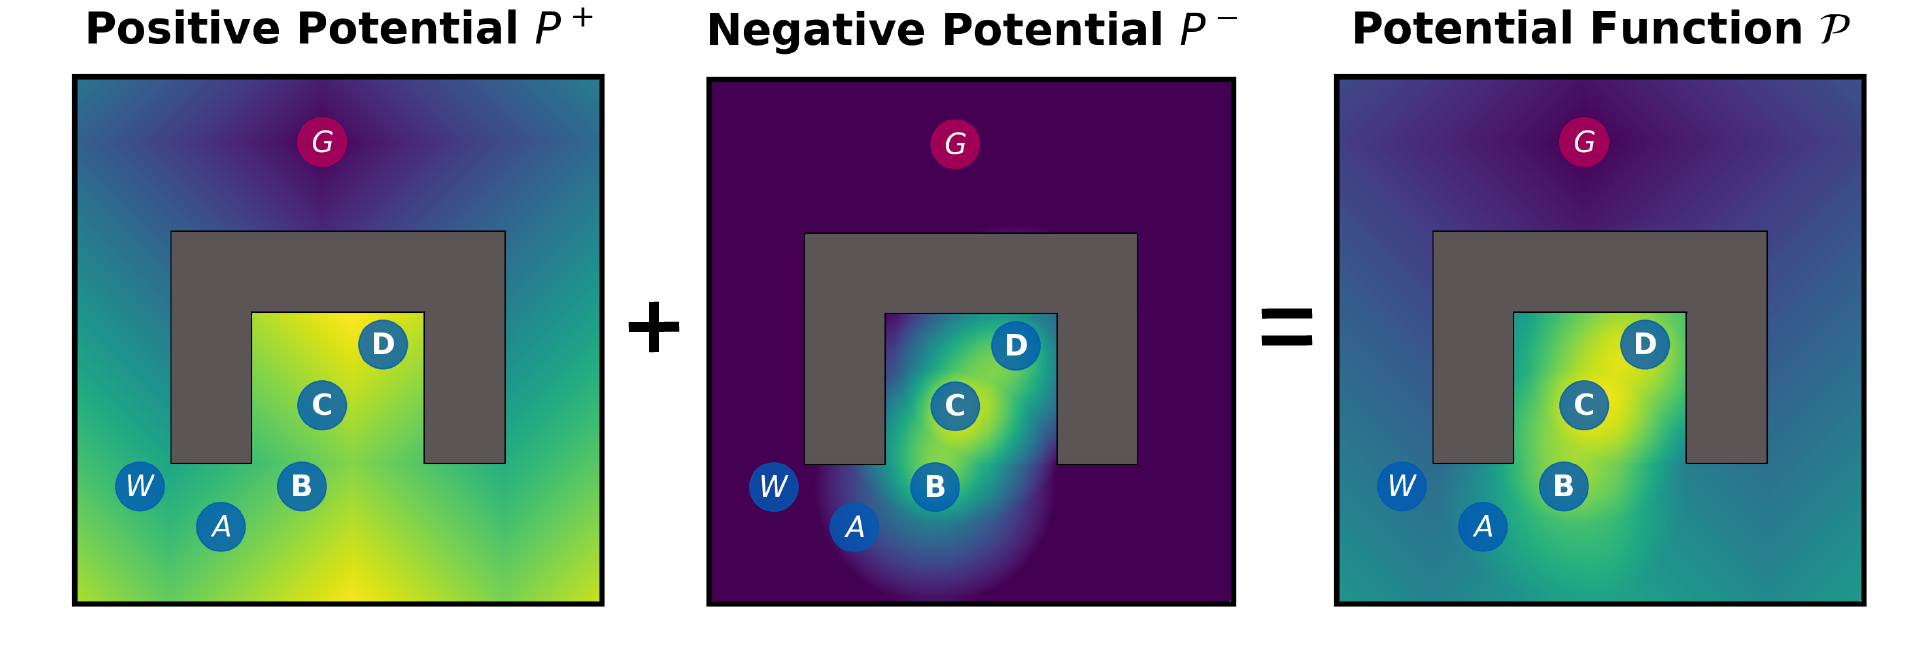
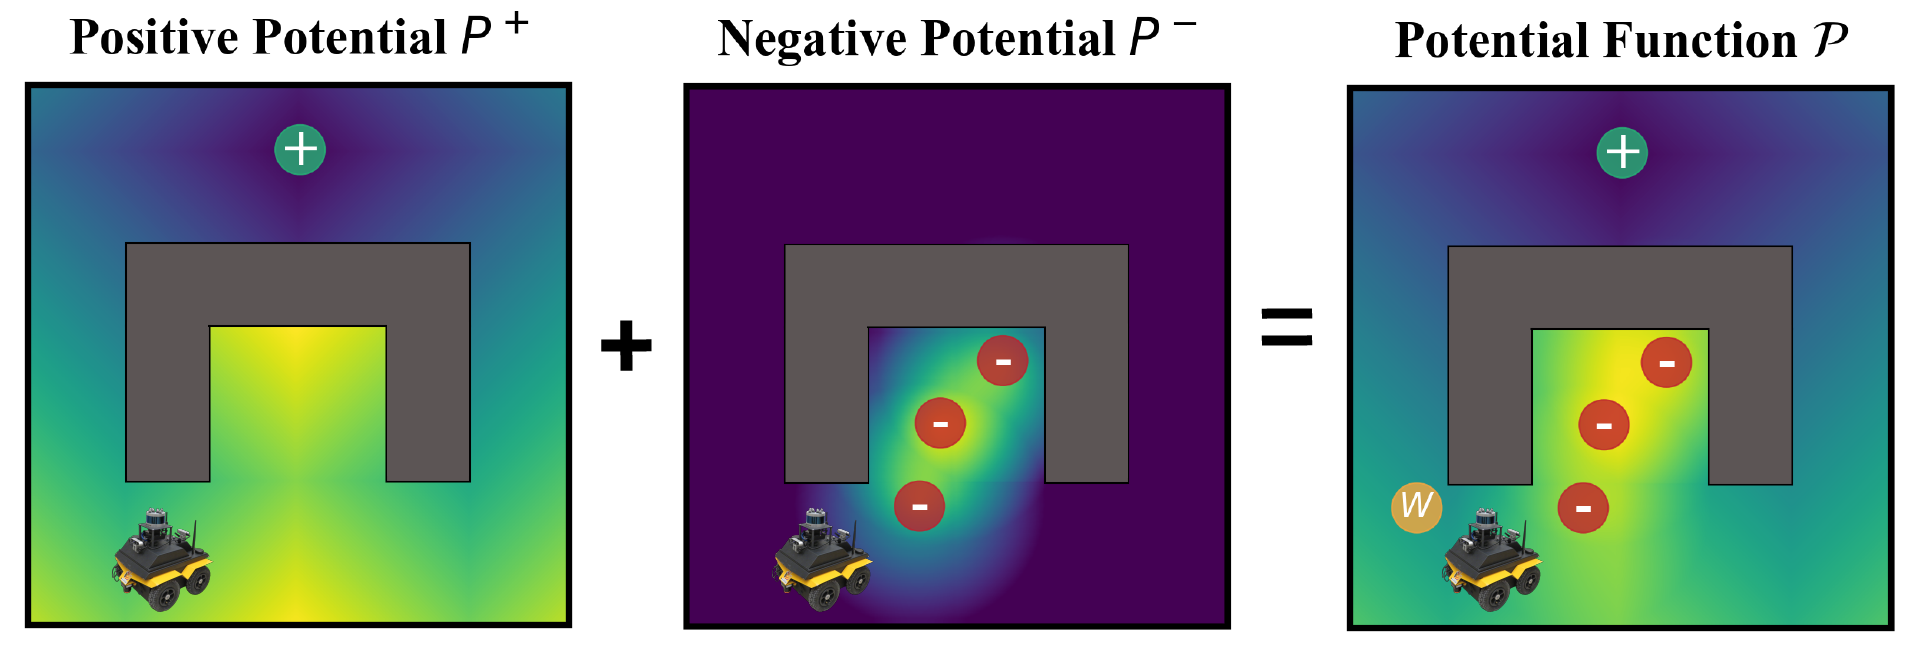
New potentials figure and caption

diff --git a/index.md b/index.md
@@ -75,15 +75,15 @@ train environment-specific regressors $\georeg_i$.  </p>
 
 ## Navigation
 <p style="text-align: justify;">
-The geodesic regressor $\georeg$ provides a powerful signal to navigate to a goal image. Indeed, it factors in the 
+The geodesic regressor $\georeg$ provides a powerful signal to navigate to a goal image (<span style="color:darkgreen;">green goal marker</span>). Indeed, it factors in the 
 environment geometry and can, for example, drive an agent out of a dead end to reach a goal that is close in terms of 
 Euclidean distance, but far geodesically. We use $\georeg$ as the attractor in a potential function $\mathcal{P}$ in 
-tandem with repulsors $p^{-}$ around previously visited observations (B,C,D). At each step, the agent A picks the action in $\freeactions$ that leads to a predicted waypoint W
-minimizing the total potential function. All computations occur in the latent space 
-$\latentspace$.
+tandem with repulsors $p^{-}$ around previously visited observations (<span style="color:red;">red markers</span>). At each step, the agent picks the action that leads to a potential-minimizing
+waypoint W. While we illustrate the potential function on the map, it is in fact defined directly over image embeddings in $\latentspace$.
 </p>
 
 {% include_relative _relative_includes/potentials.html %}
+<br>
 <p style="text-align: justify">
  Furthermore, we call $\mathtt{STOP}$ by thresholding the local metric between the current 
 image and the goal image. We found this to be more reliable than relying on $\conn$.
